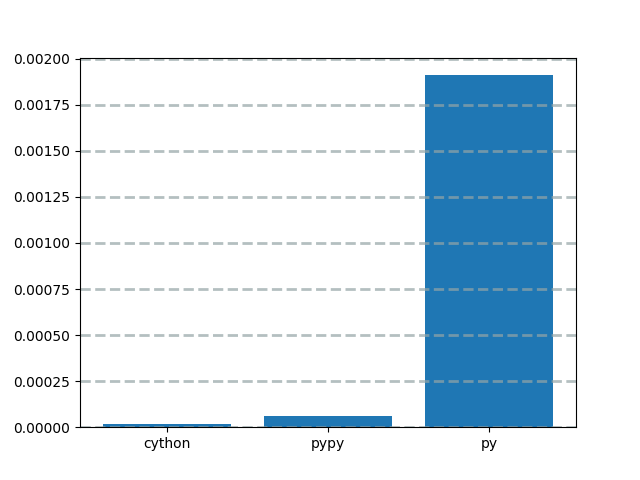
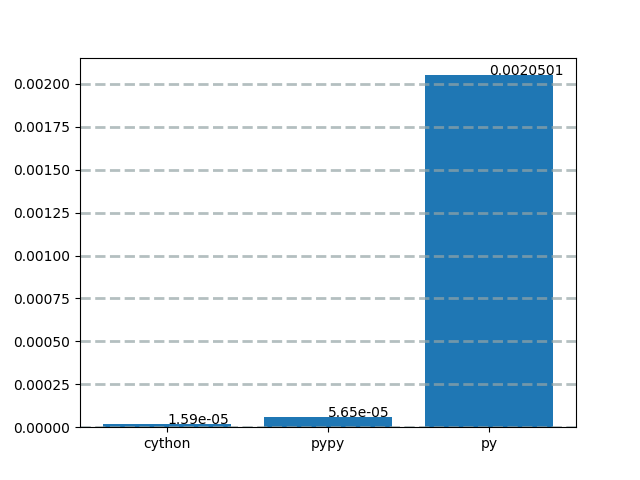
did add test with py

diff --git a/graph/__main__.py b/graph/__main__.py
@@ -10,10 +10,15 @@ def read_file(file="./results.json"):
         data = json.load(json_file)
     return data
 
+def add_labels(x,y):
+    for i in range(len(x)):
+        plt.text(i,round(y[i], 7), round(y[i], 7))
+
 
 data = read_file()
 for tst, res in data.items():
     plt.figure()
     plt.grid(color='#95a5a6', linestyle='--', linewidth=2, axis='y', alpha=0.7)
     plt.bar(np.array(list(res.keys())), np.array(list(res.values())))
+    add_labels(list(res.keys()), list(res.values()))
     plt.savefig(f"./graph/img/{tst}.png")

diff --git a/perf/cy_test.py b/perf/cy_test.py
@@ -11,7 +11,7 @@ TEST_RANGE = config.CONFIG["test range"]
 
 def run():
     data = log.read_file()
-    tests = [factorial_test(), matrix_multi_test(), integral_test(), list_search_test()]
+    tests = [adding_numbers_test(), factorial_test(), matrix_multi_test(), integral_test(), list_search_test()]
     for tst in tests:
         if tst.name in data.keys():
             data[tst.name]["cython"] = tst.avg

diff --git a/perf/pypy_tests.py b/perf/pypy_tests.py
@@ -11,7 +11,7 @@ TEST_RANGE = config.CONFIG["test range"]
 
 def run():
     data = log.read_file()
-    tests = [factorial_test(), matrix_multi_test(), integral_test(), list_search_test()]
+    tests = [adding_numbers_test(), factorial_test(), matrix_multi_test(), integral_test(), list_search_test()]
     for tst in tests:
         if tst.name in data.keys():
             data[tst.name]["pypy"] = tst.avg

diff --git a/perf/py_tests.py b/perf/py_tests.py
@@ -11,7 +11,7 @@ TEST_RANGE = config.CONFIG["test range"]
 
 def run():
     data = log.read_file()
-    tests = [factorial_test(), matrix_multi_test(), integral_test(), list_search_test()]
+    tests = [adding_numbers_test(), factorial_test(), matrix_multi_test(), integral_test(), list_search_test()]
     for tst in tests:
         if tst.name in data.keys():
             data[tst.name]["py"] = tst.avg
